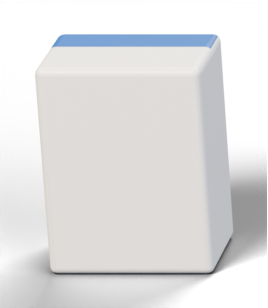
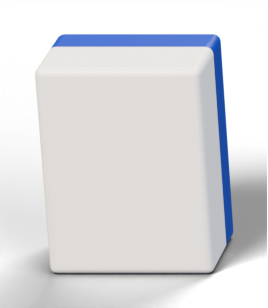
render: make the blue a solid backing that wraps the whole tile
The blue was applied as a stripe on the top edge only, leaving the visible
side ivory. That is wrong: a mahjong tile is an ivory face plate on a solid
coloured backing. Assign the blue to the back face *and* the rear band of all
four side edges (backEdgeFraction, renamed from backTopEdgeFraction), so the
colour wraps the body and reads correctly on the upright side as well as the
top edge.

Deepen the blue to a royal base (#16309e) at roughness 0.34; it renders as
~RGB(16,83,188) on the back face and ~RGB(83,122,212) on the key-lit top edge.
A brighter royal base went pastel under AgX.

Add a face-down diagnostic of the same slot (hand-0.back.png, panel 4) to
prove the wrap. It is a diagnostic only, not a manifest slot: real face-down
poses belong to the Task 2 slot bake and Task 5/11, which reuse the same
hand-upright-back pose and bake_body call. Document that scope.

The two-pass body bake is now a reusable bake_body(); the contact sheet reads
the back panel's intrinsic size from the PNG header. Regenerate the spike and
update the plan (12.6 and the Task 1 findings).

Changed region(s): [[0.209, 0.0877, 0.8955, 0.789]]

diff --git a/tools/render/build_and_render.py b/tools/render/build_and_render.py
@@ -221,7 +221,7 @@ def build_tile(scene: bpy.types.Scene, spec: dict, materials: dict) -> bpy.types
     height = tile["height"]
     thickness = tile["thickness"]
     bevel = tile["bevel"]
-    back_frac = tile["backTopEdgeFraction"]
+    back_frac = tile["backEdgeFraction"]
 
     bm = bmesh.new()
     bmesh.ops.create_cube(bm, size=1.0)
@@ -230,8 +230,8 @@ def build_tile(scene: bpy.types.Scene, spec: dict, materials: dict) -> bpy.types
             (vert.co.x * width, vert.co.y * height, (vert.co.z + 0.5) * thickness)
         )
 
-    # Split the body on the plane the blue back wraps to, so the far/top edge of
-    # a standing tile can be ivory at the front and blue at the back.
+    # Split the body on the plane the blue backing wraps to: the rear band of
+    # every side edge becomes blue, and the front band stays ivory.
     cut_z = back_frac * thickness
     bmesh.ops.bisect_plane(
         bm,
@@ -242,11 +242,13 @@ def build_tile(scene: bpy.types.Scene, spec: dict, materials: dict) -> bpy.types
     )
     bm.normal_update()
 
+    # The tile is an ivory face plate on a solid blue backing: the back face and
+    # the rear band of *every* side edge are blue, so the colour wraps the whole
+    # perimeter, not just the top edge.
     for face in bm.faces:
         centre = face.calc_center_median()
-        is_blue = face.normal.z < -0.5 or (
-            face.normal.y > 0.5 and centre.z < cut_z - 1e-5
-        )
+        is_side = abs(face.normal.z) < 0.5
+        is_blue = face.normal.z < -0.5 or (is_side and centre.z < cut_z - 1e-5)
         face.material_index = 1 if is_blue else 0
 
     mesh = bpy.data.meshes.new("tile-body")
@@ -340,6 +342,14 @@ def pose_matrix(pose: str, slot: dict, spec: dict) -> Matrix:
     if pose == "hand-upright":
         rotation = Matrix.Rotation(math.radians(90.0), 4, "X")
         location = Vector((slot["x"], slot["y"] + tile["thickness"], tile["height"] / 2.0))
+        return Matrix.Translation(location) @ rotation
+    if pose == "hand-upright-back":
+        # Same standing tile turned 180 degrees about the vertical axis, so the
+        # blue back faces the player's camera (concealed hand pose).
+        rotation = Matrix.Rotation(math.radians(180.0), 4, "Z") @ Matrix.Rotation(
+            math.radians(90.0), 4, "X"
+        )
+        location = Vector((slot["x"], slot["y"], tile["height"] / 2.0))
         return Matrix.Translation(location) @ rotation
     raise ValueError(f"unknown pose {pose!r}")
 
@@ -451,6 +461,61 @@ def render_region(
 def clear_border(scene: bpy.types.Scene) -> None:
     scene.render.use_border = False
     scene.render.use_crop_to_border = False
+
+
+def bake_body(
+    spec: dict,
+    scene: bpy.types.Scene,
+    camera: bpy.types.Object,
+    tile: bpy.types.Object,
+    table: bpy.types.Object,
+    slot: dict,
+    out_dir: Path,
+    path: Path,
+    gutter: int,
+) -> tuple[np.ndarray, tuple[int, int, int, int], bool]:
+    """Bake one body sprite: the posed tile over its shadow-catcher contact shadow.
+
+    Returns the sprite, its device-pixel crop rect, and whether the crop hit the
+    frame edge (which would clip the shadow).
+    """
+    apply_pose(tile, slot, spec)
+    sync_view_layer()
+
+    projected = [
+        project(scene, camera, tile.matrix_world @ corner) for corner in tile_corners(spec)
+    ]
+    xs = [point[0] for point in projected]
+    ys = [point[1] for point in projected]
+    render_width = scene.render.resolution_x
+    render_height = scene.render.resolution_y
+    x0 = max(0, math.floor(min(xs) - gutter))
+    y0 = max(0, math.floor(min(ys) - gutter))
+    x1 = min(render_width, math.ceil(max(xs) + gutter))
+    y1 = min(render_height, math.ceil(max(ys) + gutter))
+    rect = (x0, y0, x1, y1)
+    clipped = x0 == 0 or y0 == 0 or x1 == render_width or y1 == render_height
+
+    # Pass 1: the tile alone with transparent film.
+    table.hide_render = True
+    body = render_region(scene, out_dir / "_body-pass.png", rect)
+    if body.shape[:2] != (y1 - y0, x1 - x0):
+        die(f"body render is {body.shape[1]}x{body.shape[0]}, expected {x1 - x0}x{y1 - y0}")
+
+    # Pass 2: the contact shadow. The tile is invisible to the camera but still
+    # occludes the key lights, so the shadow catcher returns shadow as alpha.
+    table.hide_render = False
+    tile.visible_camera = False
+    shadow = render_region(scene, out_dir / "_shadow-pass.png", rect)
+    tile.visible_camera = True
+    clear_border(scene)
+    (out_dir / "_body-pass.png").unlink()
+    (out_dir / "_shadow-pass.png").unlink()
+
+    sprite = over(shadow, body)  # tile over its contact shadow
+    save_rgba(path, sprite)
+    log(f"body sprite: {path} ({x1 - x0}x{y1 - y0}), clipped={clipped}")
+    return sprite, rect, clipped
 
 
 # --------------------------------------------------------------------------- #
@@ -586,6 +651,8 @@ def main() -> None:
     blender_version = check_blender_version(spec)
     scene = reset_scene()
     configure_render(scene, spec)
+    render_width = scene.render.resolution_x
+    render_height = scene.render.resolution_y
     materials = build_materials(spec)
     build_world(scene, spec)
     camera = build_camera(scene, spec)
@@ -599,47 +666,19 @@ def main() -> None:
     if not 0 <= spike_index < len(slots):
         die(f"spike.slotIndex {spike_index} is outside the {len(slots)} hand slots")
     slot = slots[spike_index]
-    apply_pose(tile, slot, spec)
-    sync_view_layer()
-
-    project_corners = [
-        project(scene, camera, tile.matrix_world @ corner) for corner in tile_corners(spec)
-    ]
-    xs = [point[0] for point in project_corners]
-    ys = [point[1] for point in project_corners]
     gutter = spec["spike"]["shadowGutterDevicePx"]
-    render_width = scene.render.resolution_x
-    render_height = scene.render.resolution_y
-    x0 = max(0, math.floor(min(xs) - gutter))
-    y0 = max(0, math.floor(min(ys) - gutter))
-    x1 = min(render_width, math.ceil(max(xs) + gutter))
-    y1 = min(render_height, math.ceil(max(ys) + gutter))
-    crop = (x0, y0, x1, y1)
-    clipped = x0 == 0 or y0 == 0 or x1 == render_width or y1 == render_height
-    log(f"body crop: {crop} ({x1 - x0}x{y1 - y0} device px), clipped={clipped}")
-
-    tile_rect = (x0, y0, x1, y1)
     body_path = out_dir / spec["outputs"]["body"].format(index=slot["index"])
+    body_with_shadow, tile_rect, clipped = bake_body(
+        spec, scene, camera, tile, table, slot, out_dir, body_path, gutter
+    )
+    x0, y0, x1, y1 = tile_rect
 
-    # Pass 1: the tile alone with transparent film.
-    table.hide_render = True
-    body = render_region(scene, out_dir / "_body-pass.png", tile_rect)
-    if body.shape[:2] != (y1 - y0, x1 - x0):
-        die(f"body render is {body.shape[1]}x{body.shape[0]}, expected {x1 - x0}x{y1 - y0}")
-
-    # Pass 2: the contact shadow. The tile is invisible to the camera but still
-    # occludes the key lights, so the shadow catcher returns shadow as alpha.
-    table.hide_render = False
-    tile.visible_camera = False
-    shadow = render_region(scene, out_dir / "_shadow-pass.png", tile_rect)
-    tile.visible_camera = True
-    clear_border(scene)
-    (out_dir / "_body-pass.png").unlink()
-    (out_dir / "_shadow-pass.png").unlink()
-
-    body_with_shadow = over(shadow, body)  # tile over its contact shadow
-    save_rgba(body_path, body_with_shadow)
-    log(f"body sprite: {body_path}")
+    # Diagnostic only: the same slot face-down, to prove the blue backing wraps
+    # the whole body. Real face-down/concealed body poses are baked with the
+    # slot inventory (Task 2) and consumed by Tasks 5 and 11.
+    back_slot = dict(slot, pose="hand-upright-back")
+    back_path = out_dir / spec["outputs"]["back"].format(index=slot["index"])
+    bake_body(spec, scene, camera, tile, table, back_slot, out_dir, back_path, gutter)
 
     # ---- face decal ------------------------------------------------------ #
     tile_spec = spec["tile"]
@@ -721,6 +760,7 @@ def main() -> None:
     scene.camera = camera
     scene.render.resolution_x = render_width
     scene.render.resolution_y = render_height
+    apply_pose(tile, slot, spec)  # the diagnostic back bake left the tile flipped
     sync_view_layer()
     face_quad = [
         project(scene, camera, tile.matrix_world @ corner) for corner in face_corners(spec)
@@ -822,7 +862,7 @@ def main() -> None:
         "measurements": {
             "faceHeightPx": round(face_height_px, 2),
             "topEdgeProjectedPx": round(edge_px, 2),
-            "blueSliverExpectedPx": round(edge_px * tile_spec["backTopEdgeFraction"], 2),
+            "blueSliverExpectedPx": round(edge_px * tile_spec["backEdgeFraction"], 2),
             "blueSliverMeasuredPx": sliver["bluePx"],
         },
     }
@@ -832,7 +872,7 @@ def main() -> None:
     log(
         "blue sliver: "
         f"{sliver['bluePx']} device px measured, "
-        f"{round(edge_px * tile_spec['backTopEdgeFraction'], 2)} px expected "
+        f"{round(edge_px * tile_spec['backEdgeFraction'], 2)} px expected "
         f"of a {round(edge_px, 2)} px top edge, on a {round(face_height_px, 2)} px face"
     )
 

diff --git a/tools/render/README.md b/tools/render/README.md
@@ -71,7 +71,7 @@ BLENDER=/path/to/blender bash tools/render/render.sh [spec.json] [out-dir]
 | `scripts/rasterize-face.mjs` | yes | vendored SVG → face texture PNG (resvg) |
 | `scripts/contact-sheet.mjs` | yes | renders the review sheet SVG → PNG (resvg) |
 | `faces/` | yes | vendored public-domain full-face SVGs + provenance (`faces/SOURCE.md`) |
-| `spike/` | yes | Task 1 spike outputs: body sprite, decal, composite, zoom, contact sheet, starter manifest |
+| `spike/` | yes | Task 1 spike outputs: body sprite, back diagnostic, decal, composite, zoom, contact sheet, starter manifest |
 | `node_modules/`, `build/` | no | installed dependencies and intermediate face textures |
 
 Generated sprites are never hand-edited. A regeneration commits the spec/script
@@ -108,30 +108,42 @@ Measured from `spike/` and the `measurements` block of `spike/manifest.json`.
 y = −4.4), so the sprite is baked where that tile will actually sit, not on a
 neutral stage. The slot is left of the camera axis, which is what makes the
 shading position-dependent: the near (left) bevel catches the key light, the
-right bevel and the right side face fall into the fill, and the right side is
-visible at all (the face quad is a true trapezoid: top edge 151.1 px, bottom
-edge 149.3 px, centre sheared 14 px). A slot at the row centre would lose the
-side face and flatten the bevel contrast. The crop is 268 × 308 device px
-including the 32 px shadow gutter.
+right bevel falls into the fill, and the right side of the body is visible at all
+(the face quad is a true trapezoid: top edge 151.1 px, bottom edge 149.3 px,
+centre sheared 14 px). A slot at the row centre would lose the side face and
+flatten the bevel contrast. The crop is 268 × 308 device px including the 32 px
+shadow gutter. On the visible side the ivory front band meets the blue rear
+band at the backing line, which is what makes the wrap read as a physical
+backing rather than a painted stripe.
 
 Bevel: width 0.035, 4 segments, miter arc, `harden_normals`, weighted normals,
 shade smooth. Four segments is enough to hold a clean highlight at 2× without
 looking faceted.
 
-### Blue sliver: top-strip, no forward lean (§12.6 confirmed)
+### Blue backing: wraps every edge, no forward lean (§12.6, corrected)
 
-The body's blue back material wraps the **rear 40%** of the top edge
-(`backTopEdgeFraction: 0.4`); the front 60% stays ivory. At the hand slot the
-raised camera projects the 0.5-unit top edge to **37.25 device px** of which the
-blue run measures **13 device px** (expected 14.9; the top bevel arc eats the
-difference) on a **191.92 device px** face. That is ~6.5 CSS px of blue above a
-~96 CSS px face — a visible line, not a stripe, and it survives at the shipped
-2× size.
+The tile is an ivory face plate on a **solid blue backing**. The blue is not a
+single stripe on the top: the back face and the **rear 40% of every side edge**
+are blue (`backEdgeFraction: 0.4`), so the colour wraps the whole body. On a
+standing hand tile that gives a blue line along the top and a blue band down the
+visible side, and from behind the tile is solid blue (see the back diagnostic).
 
-No forward lean and no separate sliver sprite are needed: the blue line is the
+At the hand slot the raised camera projects the 0.5-unit top edge to **37.25
+device px**, of which the blue run measures **13 device px** (expected 14.9; the
+top bevel arc eats the difference) on a **191.92 device px** face. That is ~6.5
+CSS px of blue above a ~96 CSS px face — a visible line, not a stripe, and it
+survives at the shipped 2× size.
+
+Colour: base `#16309e` at roughness 0.34, which reads as a deep royal blue after
+AgX — ≈ RGB(16, 83, 188) on the back face and ≈ RGB(83, 122, 212) on the
+key-lit top edge. A brighter royal base (e.g. `#4169e1`) renders as a pastel
+periwinkle under this key and AgX; keep the base dark to keep the blue deep.
+
+No forward lean and no separate sliver sprite are needed: the blue rim is the
 same geometry as the body, so it moves with the tile and its contact shading.
-The ivory front strip reads as the face plate's edge and blends into the face;
-do not add a third material for it.
+The ivory front band reads as the face plate's edge and blends into the face; do
+not add a third material for it. If a fully blue side is wanted instead of a
+backed plate, set `backEdgeFraction` to 1.0 — no script change.
 
 ### Decal inset and blending (§12.2 confirmed)
 
@@ -210,9 +222,24 @@ bevel and alpha can be inspected; Task 2/3 ship 2× lossy WebP under
 | `hand-0.body.png` | 268 × 308 device px body sprite for the leftmost hand slot, alpha + baked shadow |
 | `1m-upright.decal.png` | 492 × 672 px lit 1-man face decal (inset + 1 px gutter), rendered at 3× CSS |
 | `1m-upright.composite.png` | body sprite with the decal homography-warped onto its face quad — the 2D composite the runtime will do |
-| `contact-zoom.png` | 4× nearest zoom of the composite's top-left corner (blue sliver, bevel, decal edge) |
-| `contact-sheet.png` | body, composite, decal, the zoom, and the manifest numbers |
+| `hand-0.back.png` | face-down diagnostic of the same slot (blue backing toward the camera); proves the wrap, not a shipped pose |
+| `contact-zoom.png` | 4× nearest zoom of the composite's top-left corner (blue rim, bevel, decal edge) |
+| `contact-sheet.png` | body, composite, decal, back diagnostic, the zoom, and the manifest numbers |
 | `manifest.json` | starter manifest (version 1) with the slot rect, face quad, `faceMatrix`, orientation, draw order, decal size, and measurements |
+
+## Scope: back / face-down poses
+
+Task 1's acceptance is one face-up hand-slot body sprite and one lit decal, so
+only the `hand-0` face-up body is a real deliverable here. The `hand-0.back.png`
+render is a **diagnostic**: it exists to prove the blue backing wraps the whole
+body, and it is not referenced by the manifest.
+
+Real face-down bodies belong with the full body-pose bake in Task 2 (the slot
+inventory, including concealed hands) and are consumed by Task 5 (opponent
+concealed hands) and Task 11 (wall/dora tiles). They use the same
+`hand-upright-back` pose and `bake_body` call; there is nothing new to design,
+just more slots and the draw order of a stacked back row. Task 2 should drop this
+diagnostic from `spike/` once the real back poses exist.
 
 ## Next tasks
 

diff --git a/rendered-table-plan.md b/rendered-table-plan.md
@@ -186,8 +186,9 @@ first renders, but it does not reopen the section 12 decisions.
   close to Tenhou).
 - Key/fill/rim area lights from above/front-left; a soft contact shadow.
 - AgX colour management; denoised Cycles render.
-- Hand tiles stay vertical; the blue back wraps the rear 40% of the top edge to give the
-  sliver (section 12, item 6).
+- Hand tiles stay vertical; the blue backing (the back face plus the rear 40% of
+  every side edge) gives the blue rim on the top and side edges (section 12,
+  item 6).
 - Face decals are rendered on the canonical face-on orthographic rig (section 12, item 3).
 
 ## 8. Manifest shape
@@ -310,11 +311,14 @@ headless browser).
 5. **Body underlay and layering.** Every body sprite has an opaque face
    underlay. Paint order is background → bodies by ascending `drawOrder` → face
    decals → runtime overlays. Decals stay inside the bevel and never cover it.
-6. **Blue sliver.** No forward lean and no separate sliver sprite. The body's
-   blue back material wraps the rear 40% of the top edge
-   (`backTopEdgeFraction = 0.4`), so the fixed raised camera sees a thin blue
-   line above the ivory face of a vertical hand tile. Task 1 checks the visible
-   width at final resolution.
+6. **Blue backing and sliver.** No forward lean and no separate sliver sprite.
+   The tile is an ivory face plate on a solid blue backing: the back face and
+   the rear 40% of **every** side edge are blue (`backEdgeFraction = 0.4`), so
+   the fixed raised camera sees a thin blue line above the ivory face of a
+   vertical hand tile *and* a blue band down the visible side. Task 1 corrected
+   this from "top edge only": the first render had an all-ivory side, which is
+   wrong for a backed tile. Task 1 checks the visible width at final
+   resolution.
 7. **Shadows.** Contact shadows and felt ambient occlusion are baked into the
    body sprites and the background; each body crop includes a 32 px (2×) shadow
    gutter. There is no runtime shadow layer and no CSS shadow on tiles. Kans
@@ -372,7 +376,10 @@ for Tasks 2–3:
   decal/body seam.
 - Measured at `hand-0`: the 0.5-unit top edge projects to 37.25 device px, of
   which the rear 40% blue is a 13 px run above a 191.92 px face (≈ 6.5 CSS px of
-  blue at 2×). The top-strip method reads as a sliver; no lean or extra sprite.
+  blue at 2×). The backing reads as a sliver; no lean or extra sprite. The same
+  40% band now wraps the visible side, and the blue is a deep royal base
+  (`#16309e`) that renders as ≈ RGB(16, 83, 188) on the back face and
+  ≈ RGB(83, 122, 212) on the key-lit top edge.
 - The decal is 492 × 672 px at 3× CSS (inset 0.68 × 0.93 plus a 1 px gutter).
   Its ivory lands within 1/255 of the body face at the seam, so no runtime mask
   or blend mode is needed.
